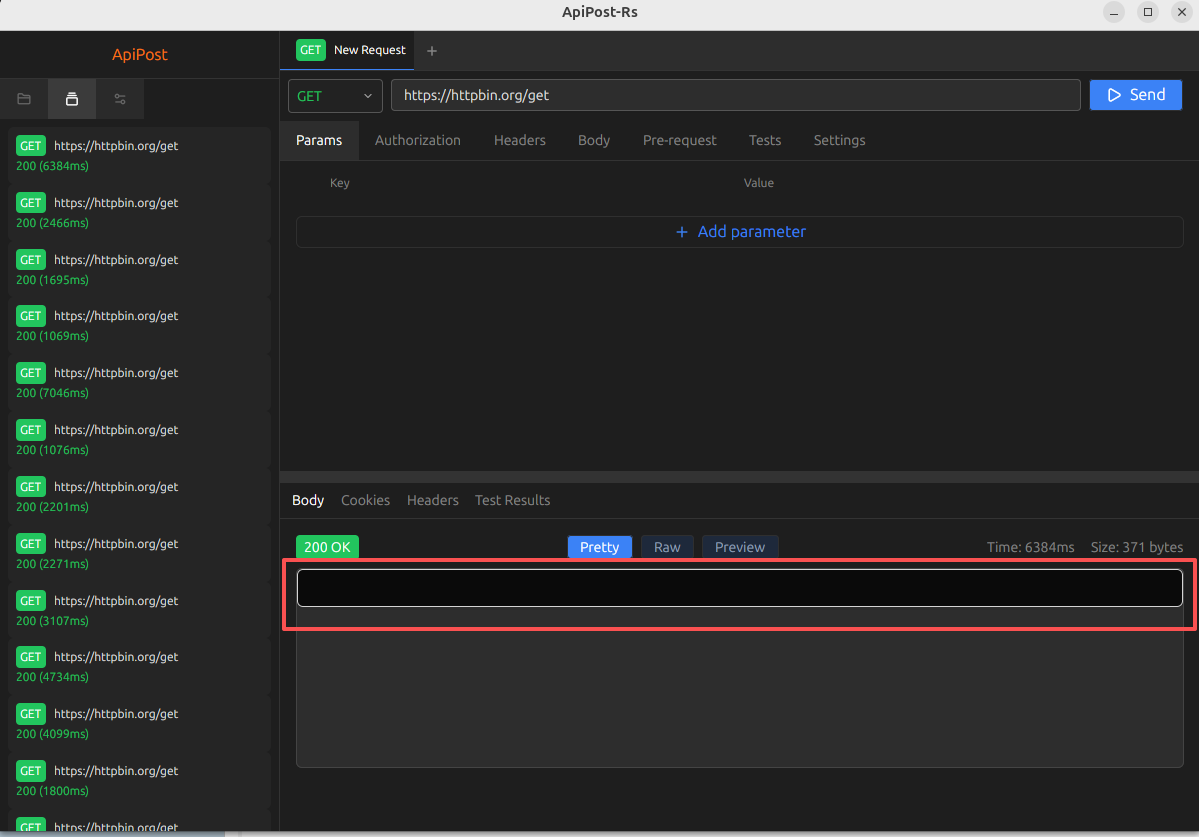
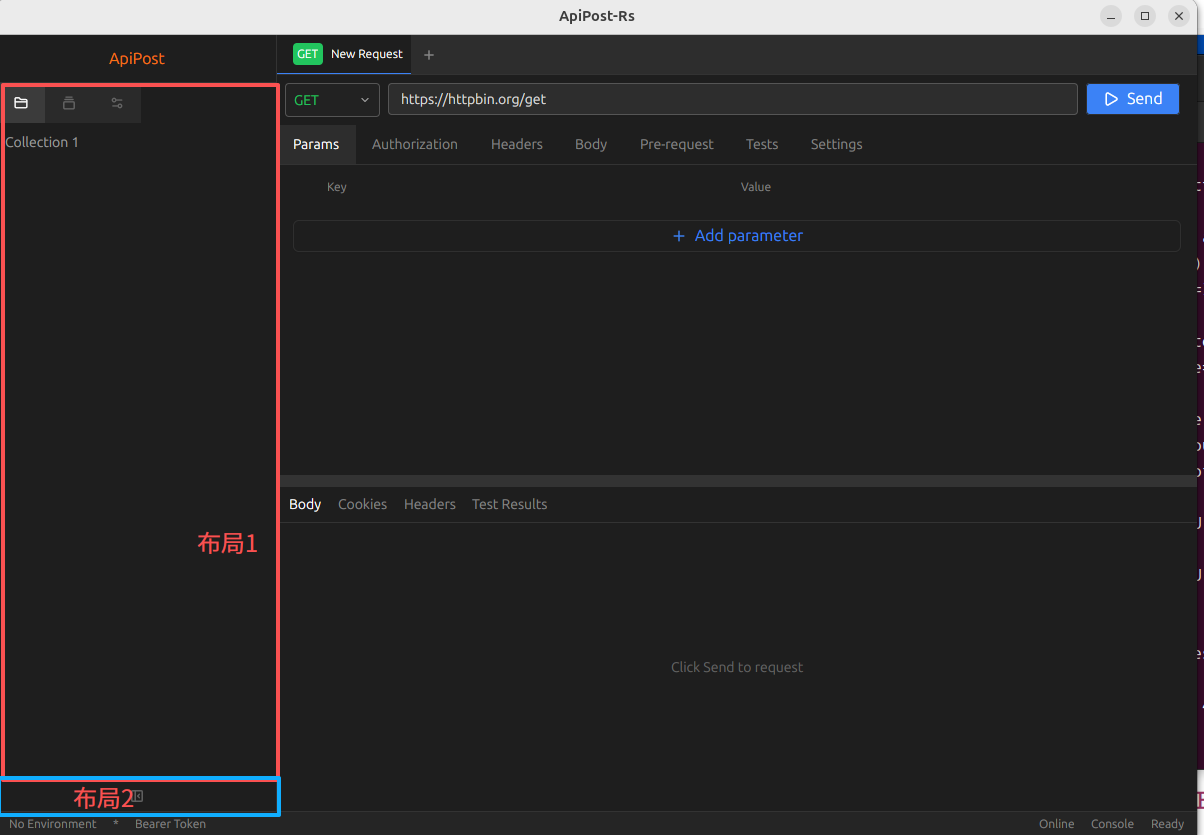
侧边栏调整

diff --git a/src/ui/main_view.rs b/src/ui/main_view.rs
@@ -1367,21 +1367,28 @@ impl Render for MainView {
                                 // 侧边栏内容
                                 if !self.sidebar_collapsed {
                                     div()
-                                        .flex_1()
                                         .flex()
-                                        .flex_col()
+                                        .flex_1()
+                                        .h(px(600.0))
                                         .overflow_y_hidden()
                                         .children([
                                             if sidebar_tab == SidebarTab::History {
                                                 if history.is_empty() {
-                                                    div().p_4().text_sm().text_color(rgb(0x666666))
+                                                    div()
+                                                        .id("history-empty")
+                                                        .p_4()
+                                                        .text_sm()
+                                                        .text_color(rgb(0x666666))
                                                         .child("No history yet")
                                                 } else {
                                                     div()
+                                                        .id("history-list")
                                                         .flex_col()
+                                                        .flex_1()
                                                         .gap_1()
+                                                        .overflow_y_scroll()
+                                                        .min_h(px(0.0))
                                                         .p_2()
-                                                        .overflow_y_hidden()
                                                         .children(history.iter().map(|entry| {
                                                             let method_clr = method_color(&entry.method);
                                                             let entry_url = entry.url.clone();
@@ -1399,17 +1406,14 @@ impl Render for MainView {
                                                                 .p_2()
                                                                 .rounded_md()
                                                                 .cursor_pointer()
-                                                                .hover(|s| s.bg(rgb(0x2d2d2d)))
-                                                                .bg(rgb(0x252525))
+                                                                .hover(|s| s.bg(rgb(0x2d2d2d))).bg(rgb(0x252525))
                                                                 .on_mouse_down(MouseButton::Left, cx.listener(move |this, _: &MouseDownEvent, _window: &mut Window, cx: &mut Context<Self>| {
-                                                                    // 更新 URL 输入框
                                                                     this.url = entry_url.clone();
                                                                     this.is_importing_curl = true;
                                                                     let url_str = entry_url.clone();
                                                                     this.url_input.update(cx, |state, cx| {
                                                                         state.set_value(&url_str, _window, cx);
                                                                     });
-                                                                    // 更新方法选择器
                                                                     this.method = entry_method.clone();
                                                                     let method_upper = entry_method.to_uppercase();
                                                                     let method_idx = ["GET", "POST", "PUT", "DELETE", "PATCH", "HEAD", "OPTIONS"]
@@ -1421,7 +1425,6 @@ impl Render for MainView {
                                                                         state.set_selected_index(idx_path, _window, cx);
                                                                     });
                                                                     this.is_importing_curl = false;
-                                                                    // 加载响应数据到 UI 组件
                                                                     if let Some(status) = entry_clone.response_status {
                                                                         let resp_body = entry_response_body.clone().unwrap_or_default();
                                                                         let resp_headers: std::collections::HashMap<String, String> = entry_response_headers.as_ref().and_then(|h| serde_json::from_str(h).ok()).unwrap_or_default();
@@ -1434,9 +1437,7 @@ impl Render for MainView {
                                                                             size_bytes: entry_response_size.unwrap_or(0),
                                                                         };
                                                                         this.response = Some(response);
-                                                                        // 检测响应格式
                                                                         this.response_raw_format = RawFormat::detect(content_type.as_deref(), &resp_body);
-                                                                        // 格式化 JSON
                                                                         let json_body = RawFormat::Json.format_body(&resp_body);
                                                                         this.response_input.update(cx, |state, cx| {
                                                                             state.set_value(&json_body, _window, cx);
@@ -1474,9 +1475,19 @@ impl Render for MainView {
                                                         }))
                                                 }
                                             } else if sidebar_tab == SidebarTab::Collections {
-                                                div().p_2().text_sm().text_color(rgb(0xa0a0a0)).child("Collection 1")
+                                                div()
+                                                    .id("sidebar-collections")
+                                                    .p_2()
+                                                    .text_sm()
+                                                    .text_color(rgb(0xa0a0a0))
+                                                    .child("Collection 1")
                                             } else {
-                                                div().p_2().text_sm().text_color(rgb(0xa0a0a0)).child("Environments")
+                                                div()
+                                                    .id("sidebar-environments")
+                                                    .p_2()
+                                                    .text_sm()
+                                                    .text_color(rgb(0xa0a0a0))
+                                                    .child("Environments")
                                             },
                                         ])
                                 } else {
